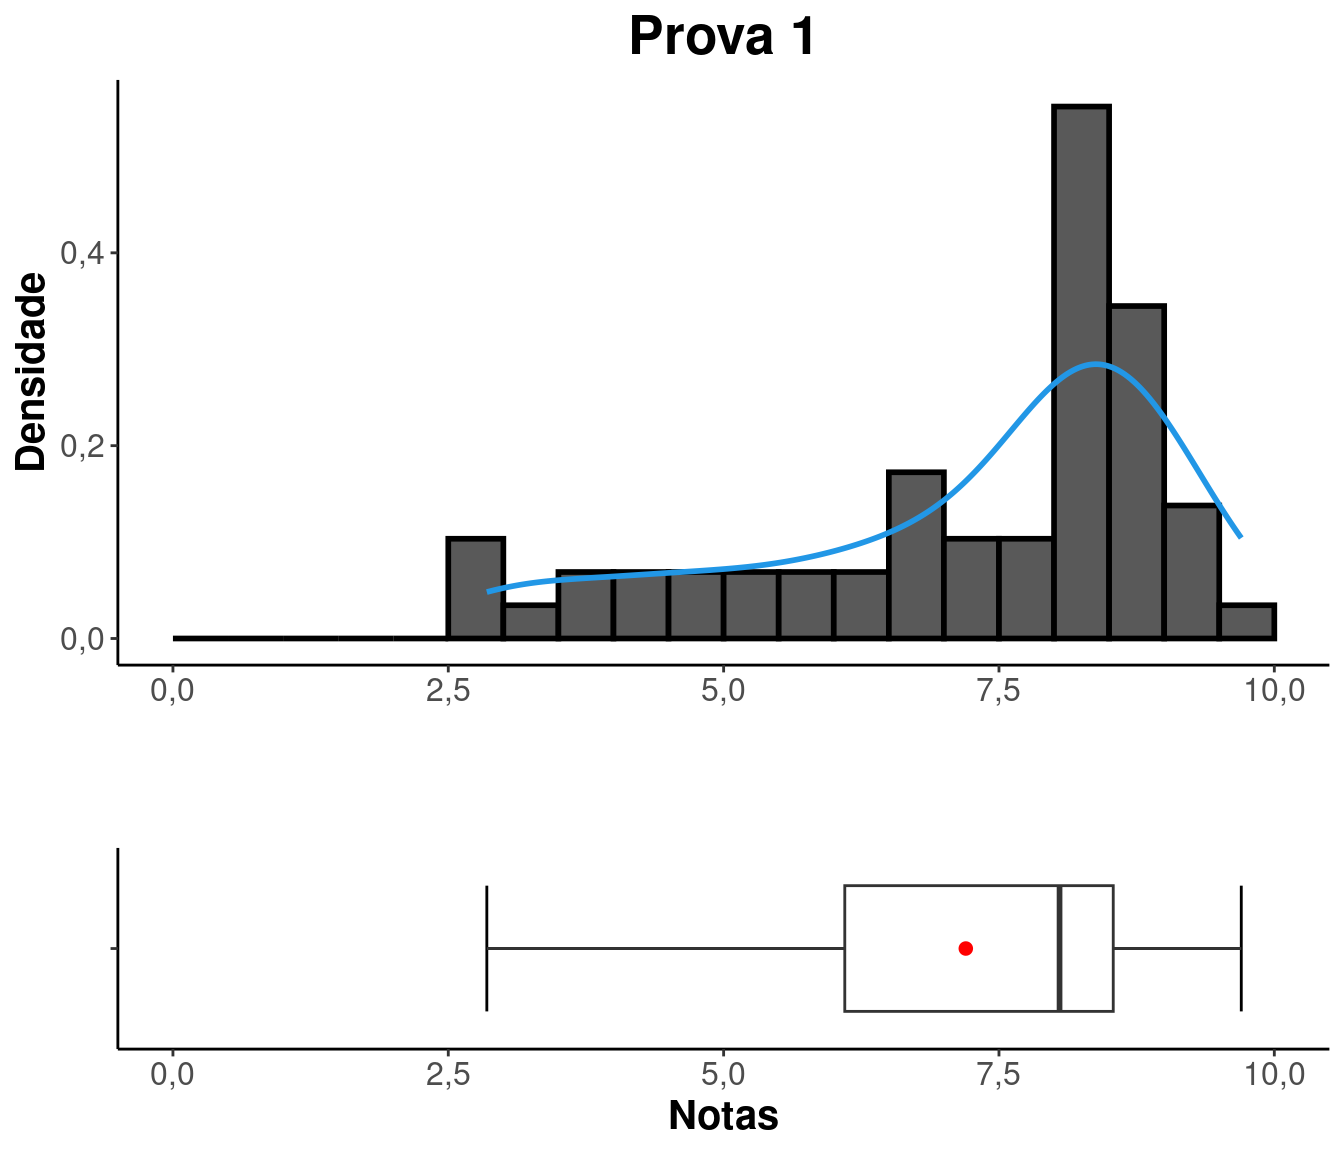
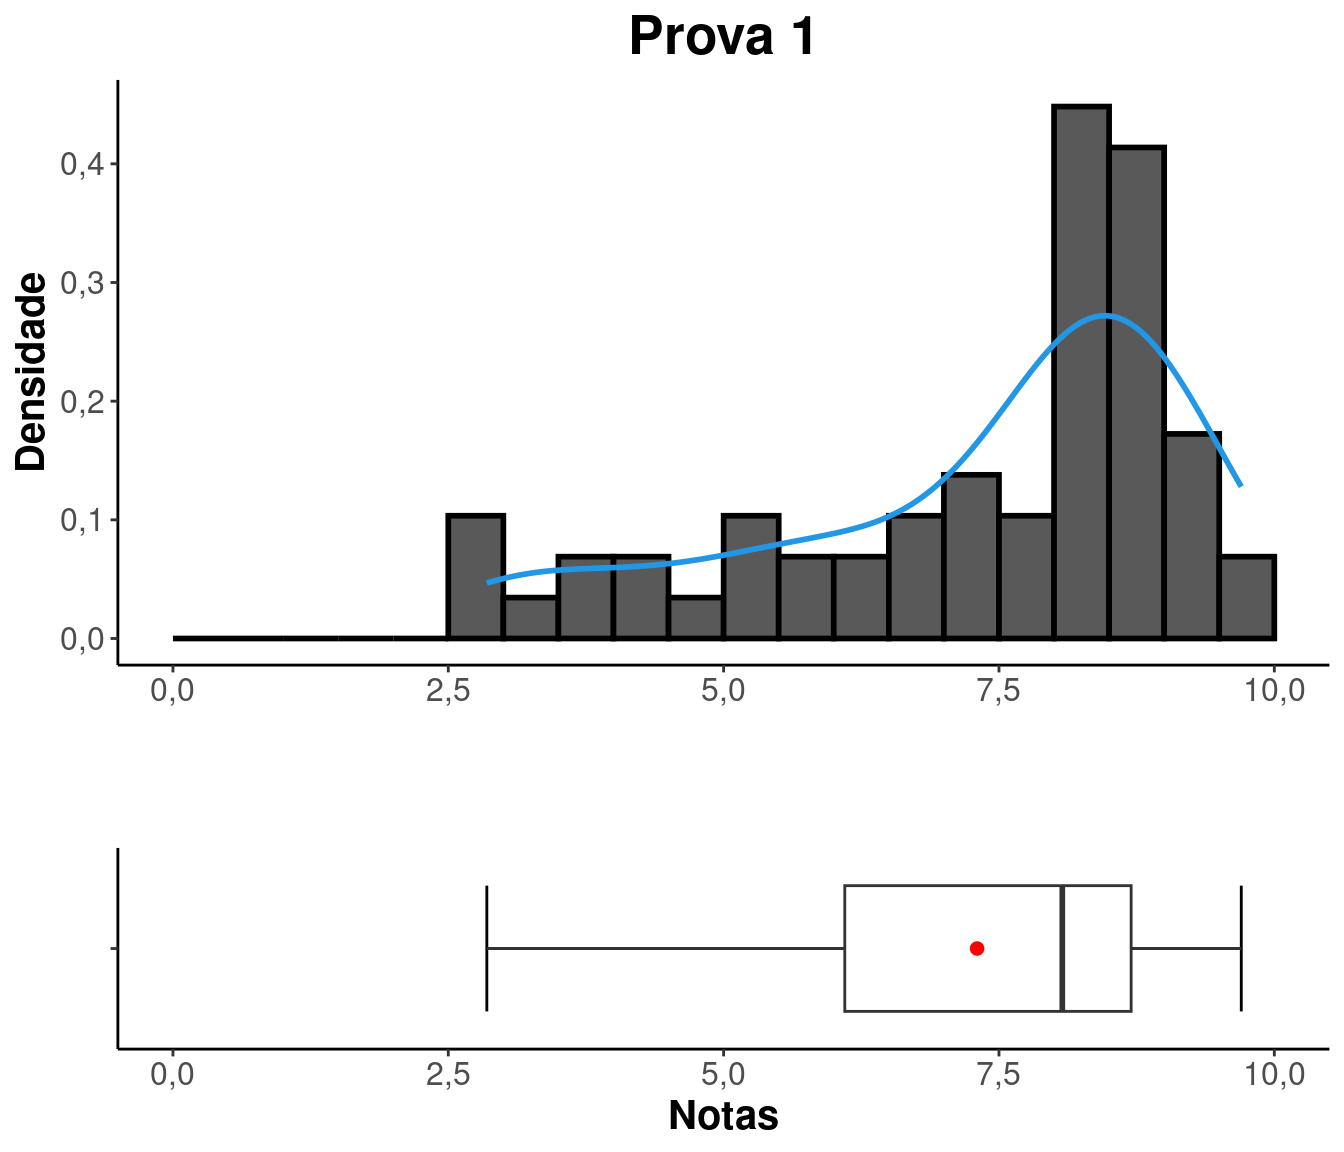
atualiza notas

diff --git a/notas.html b/notas.html
@@ -337,8 +337,8 @@ Prof. Dra. Silvia Emiko Shimakura</div></h3>
 <p>Busque sua situação digitando seu GRR na caixa “Search”.</p>
 <p><br />
 </p>
-<div class="datatables html-widget html-fill-item-overflow-hidden html-fill-item" id="htmlwidget-5998883e618a1cd21f5b" style="width:100%;height:auto;"></div>
-<script type="application/json" data-for="htmlwidget-5998883e618a1cd21f5b">{"x":{"filter":"none","vertical":false,"editable":{"target":"cell","disable":{"columns":null},"numeric":[1,2,3,4],"date":[]},"data":[["GRR20233873","GRR20240210","GRR20242448","GRR20241331","GRR20244190","GRR20241678","GRR20243150","GRR20240436","GRR20243413","GRR20242873","GRR20242352","GRR20244982","GRR20222245","GRR20244660","GRR20240331","GRR20243352","GRR20242856","GRR20244777","GRR20233892","GRR20233896","GRR20243557","GRR20241963","GRR20241650","GRR20242304","GRR20240528","GRR20243637","GRR20241140","GRR20243507","GRR20243418","GRR20241848","GRR20243242","GRR20244697","GRR20242858","GRR20207109","GRR20240551","GRR20242315","GRR20245109","GRR20243481","GRR20242921","GRR20233900","GRR20241882","GRR20233913","GRR20243709","GRR20241855","GRR20240644","GRR20241293","GRR20212996","GRR20244651","GRR20242530","GRR20233895","GRR20233908","GRR20244852","GRR20241403","GRR20233910","GRR20233917","GRR20233901","GRR20242112","GRR20240395","GRR20244636","GRR20222235","GRR20245017","GRR20243266","GRR20242635","GRR20240257","GRR20244892","GRR20240323","GRR20235505","GRR20233890","GRR20242758","GRR20242968","GRR20241608"],[34,34,0,4,32,8,0,4,0,0,0,34,8,2,4,4,4,30,0,2,6,14,4,4,2,2,0,0,2,2,0,2,8,4,4,12,0,6,2,0,2,16,0,34,34,0,6,0,0,2,2,0,0,2,8,6,0,6,0,34,4,2,8,4,2,6,2,0,4,0,4],[null,null,9.25,9.699999999999999,null,5.3,8.699999999999999,8.75,7.5,7.55,8.050000000000001,null,null,8.85,null,null,8.550000000000001,null,8.050000000000001,2.9,6.8,9.25,8.050000000000001,8.5,8.050000000000001,8.449999999999999,8.199999999999999,8,6.9,3.8,6.25,7.5,8.800000000000001,4.43,8.9,3.2,8.15,null,6.65,5.7,5.45,3.7,8.949999999999999,null,null,8.35,5.85,8.300000000000001,8.4,6.8,8.550000000000001,9.15,8.25,6.05,8.1,null,4.7,4.5,9.15,null,8.6,9,2.9,2.85,6.7,7.1,4.6,7.85,8.300000000000001,8.4,8.25],[0,0,9.539999999999999,10,0,8.869999999999999,8.949999999999999,9.529999999999999,8.800000000000001,8.08,9.9,0,5.45,10,9.23,8.26,10,0,8.68,5.81,9.18,8.59,10,9.380000000000001,6.85,9.390000000000001,9.82,9.51,5.56,8.140000000000001,9.75,9.1,0,6.98,9.390000000000001,6.82,9.58,9.06,9.69,7.95,8.06,0,9.58,0,0,9.84,6.31,9.75,10,3.89,0,9.57,9.640000000000001,9.279999999999999,10,8.140000000000001,9.109999999999999,0,10,0,9.58,0,0,0,7.97,7.12,7.24,9.380000000000001,9.58,9.23,9.75],[0,0,9.789999999999999,9.75,0,5.42,9.789999999999999,9.59,8.25,5.79,9.789999999999999,0,3.81,9.789999999999999,7.42,0,8.33,0,9.539999999999999,4.34,9.44,9.539999999999999,9.48,8.630000000000001,7.52,8.65,9.75,9.130000000000001,8.289999999999999,8.08,9.539999999999999,9.44,9.17,5.94,9.75,5.75,9.75,0,8.23,9.48,9.289999999999999,9.380000000000001,9.44,0,0,9.75,7.42,9.789999999999999,9,7.9,8.23,7.71,8,6.66,9.48,0,9.06,4.36,9.44,0,9.75,0,9.789999999999999,7.56,7.19,6.23,8.039999999999999,9.58,9.5,8.98,9.75]],"container":"<table class=\"cell-border stripe\">\n  <thead>\n    <tr>\n      <th>GRR<\/th>\n      <th>FALTAS<\/th>\n      <th>PROVA 1<\/th>\n      <th>REMOTA 1<\/th>\n      <th>REMOTA 2<\/th>\n    <\/tr>\n  <\/thead>\n<\/table>","options":{"columnDefs":[{"className":"dt-right","targets":[1,2,3,4]}],"order":[],"autoWidth":false,"orderClasses":false}},"evals":[],"jsHooks":[]}</script>
+<div class="datatables html-widget html-fill-item-overflow-hidden html-fill-item" id="htmlwidget-be32d0ffc470505ccc90" style="width:100%;height:auto;"></div>
+<script type="application/json" data-for="htmlwidget-be32d0ffc470505ccc90">{"x":{"filter":"none","vertical":false,"editable":{"target":"cell","disable":{"columns":null},"numeric":[1,2,3,4],"date":[]},"data":[["GRR20233873","GRR20240210","GRR20242448","GRR20241331","GRR20244190","GRR20241678","GRR20243150","GRR20240436","GRR20243413","GRR20242873","GRR20242352","GRR20244982","GRR20222245","GRR20244660","GRR20240331","GRR20243352","GRR20242856","GRR20244777","GRR20233892","GRR20233896","GRR20243557","GRR20241963","GRR20241650","GRR20242304","GRR20240528","GRR20243637","GRR20241140","GRR20243507","GRR20243418","GRR20241848","GRR20243242","GRR20244697","GRR20242858","GRR20207109","GRR20240551","GRR20242315","GRR20245109","GRR20243481","GRR20242921","GRR20233900","GRR20241882","GRR20233913","GRR20243709","GRR20241855","GRR20240644","GRR20241293","GRR20212996","GRR20244651","GRR20242530","GRR20233895","GRR20233908","GRR20244852","GRR20241403","GRR20233910","GRR20233917","GRR20233901","GRR20242112","GRR20240395","GRR20244636","GRR20222235","GRR20245017","GRR20243266","GRR20242635","GRR20240257","GRR20244892","GRR20240323","GRR20235505","GRR20233890","GRR20242758","GRR20242968","GRR20241608"],[34,34,0,4,32,8,0,4,0,0,0,34,8,2,4,4,4,30,0,2,6,14,4,4,2,2,0,0,2,2,0,2,8,4,4,12,0,6,2,0,2,16,0,34,34,0,6,0,0,2,2,0,0,2,8,6,0,6,0,34,4,2,8,4,2,6,2,0,4,0,4],[null,null,9.25,9.699999999999999,null,5.3,8.699999999999999,8.75,7.5,7.55,8.050000000000001,null,null,8.85,null,null,8.550000000000001,null,8.25,2.9,6.8,9.25,8.050000000000001,8.5,8.050000000000001,8.699999999999999,8.199999999999999,8.300000000000001,8,3.8,6.25,7.5,8.800000000000001,4.43,8.9,3.2,8.15,null,6.65,5.7,5.45,3.7,8.949999999999999,null,null,8.35,5.85,8.800000000000001,9.1,6.8,8.550000000000001,9.35,8.25,6.05,8.1,null,5.5,4.5,9.550000000000001,null,8.6,9,2.9,2.85,7.2,7.1,4.6,7.85,8.300000000000001,9.4,8.25],[0,0,9.539999999999999,10,0,8.869999999999999,8.949999999999999,9.529999999999999,8.800000000000001,8.08,9.9,0,5.45,10,9.23,8.26,10,0,8.68,5.81,9.18,8.59,10,9.380000000000001,6.85,9.390000000000001,9.82,9.51,5.56,8.140000000000001,9.75,9.1,0,6.98,9.390000000000001,6.82,9.58,9.06,9.69,7.95,8.06,0,9.58,0,0,9.84,6.31,9.75,10,3.89,0,9.57,9.640000000000001,9.279999999999999,10,8.140000000000001,9.109999999999999,0,10,0,9.58,0,0,0,7.97,7.12,7.24,9.380000000000001,9.58,9.23,9.75],[0,0,9.789999999999999,9.75,0,5.42,9.789999999999999,9.59,8.25,5.79,9.789999999999999,0,3.81,9.789999999999999,7.42,0,8.33,0,9.539999999999999,4.34,9.44,9.539999999999999,9.48,8.630000000000001,7.52,8.65,9.75,9.130000000000001,8.289999999999999,8.08,9.539999999999999,9.44,9.17,5.94,9.75,5.75,9.75,0,8.23,9.48,9.289999999999999,9.380000000000001,9.44,0,0,9.75,7.42,9.789999999999999,9,7.9,8.23,7.71,8,6.66,9.48,0,9.06,4.36,9.44,0,9.75,0,9.789999999999999,7.56,7.19,6.23,8.039999999999999,9.58,9.5,8.98,9.75]],"container":"<table class=\"cell-border stripe\">\n  <thead>\n    <tr>\n      <th>GRR<\/th>\n      <th>FALTAS<\/th>\n      <th>PROVA 1<\/th>\n      <th>REMOTA 1<\/th>\n      <th>REMOTA 2<\/th>\n    <\/tr>\n  <\/thead>\n<\/table>","options":{"columnDefs":[{"className":"dt-right","targets":[1,2,3,4]}],"order":[],"autoWidth":false,"orderClasses":false}},"evals":[],"jsHooks":[]}</script>
 <hr />
 </div>
 <div id="análise-das-notas"
@@ -348,14 +348,14 @@ class="section level1 tabset tabset-fade tabset-pills">
 <div id="prova-1" class="section level2">
 <h2>PROVA 1</h2>
 <center>
-<table style="width:76%;">
+<table style="width:74%;">
 <colgroup>
 <col width="6%" />
 <col width="12%" />
 <col width="8%" />
 <col width="11%" />
 <col width="13%" />
-<col width="11%" />
+<col width="8%" />
 <col width="12%" />
 </colgroup>
 <thead>
@@ -374,9 +374,9 @@ class="section level1 tabset tabset-fade tabset-pills">
 <td align="center">58</td>
 <td align="center">2.85</td>
 <td align="center">6.1</td>
-<td align="center">7.199</td>
-<td align="center">8.05</td>
-<td align="center">8.538</td>
+<td align="center">7.301</td>
+<td align="center">8.075</td>
+<td align="center">8.7</td>
 <td align="center">9.7</td>
 </tr>
 </tbody>
@@ -397,8 +397,8 @@ class="section level1 tabset tabset-fade tabset-pills">
 <tbody>
 <tr class="odd">
 <td align="center">6.85</td>
-<td align="center">3.573</td>
-<td align="center">1.89</td>
+<td align="center">3.704</td>
+<td align="center">1.924</td>
 </tr>
 </tbody>
 </table>
